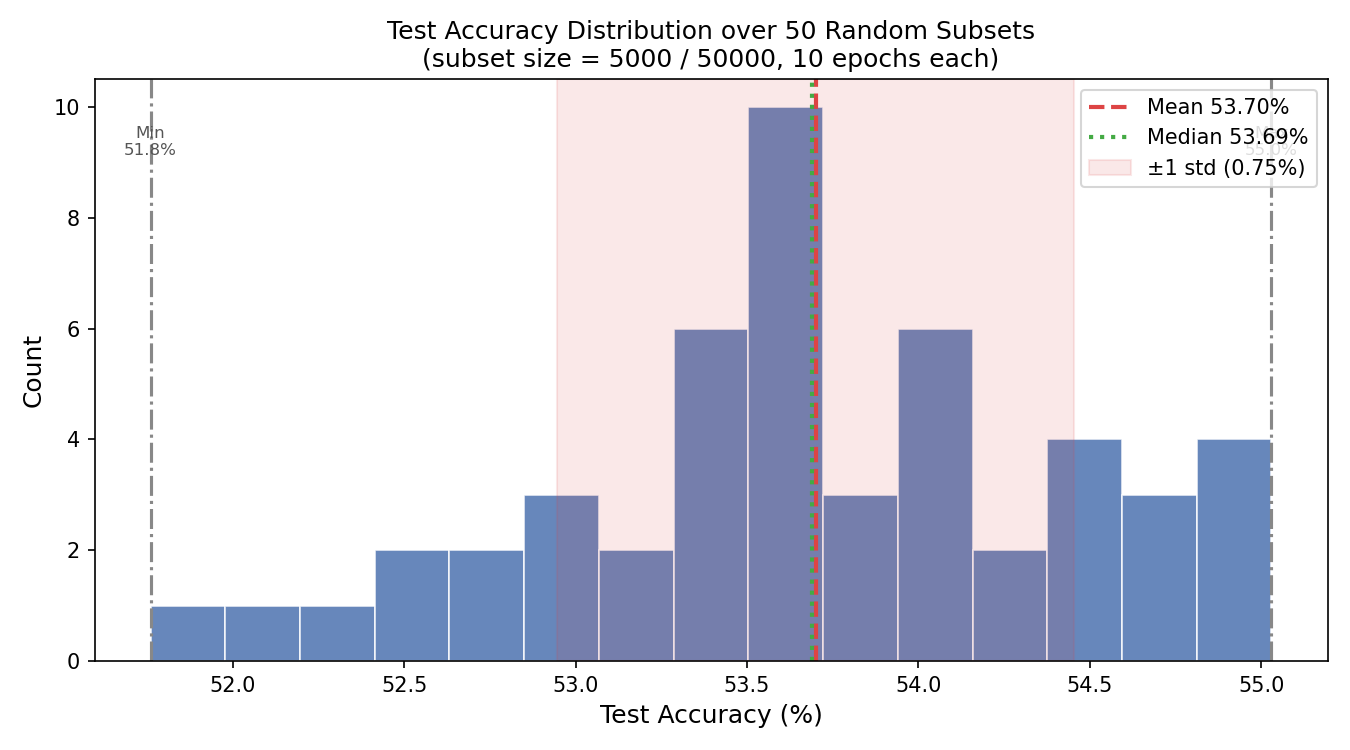
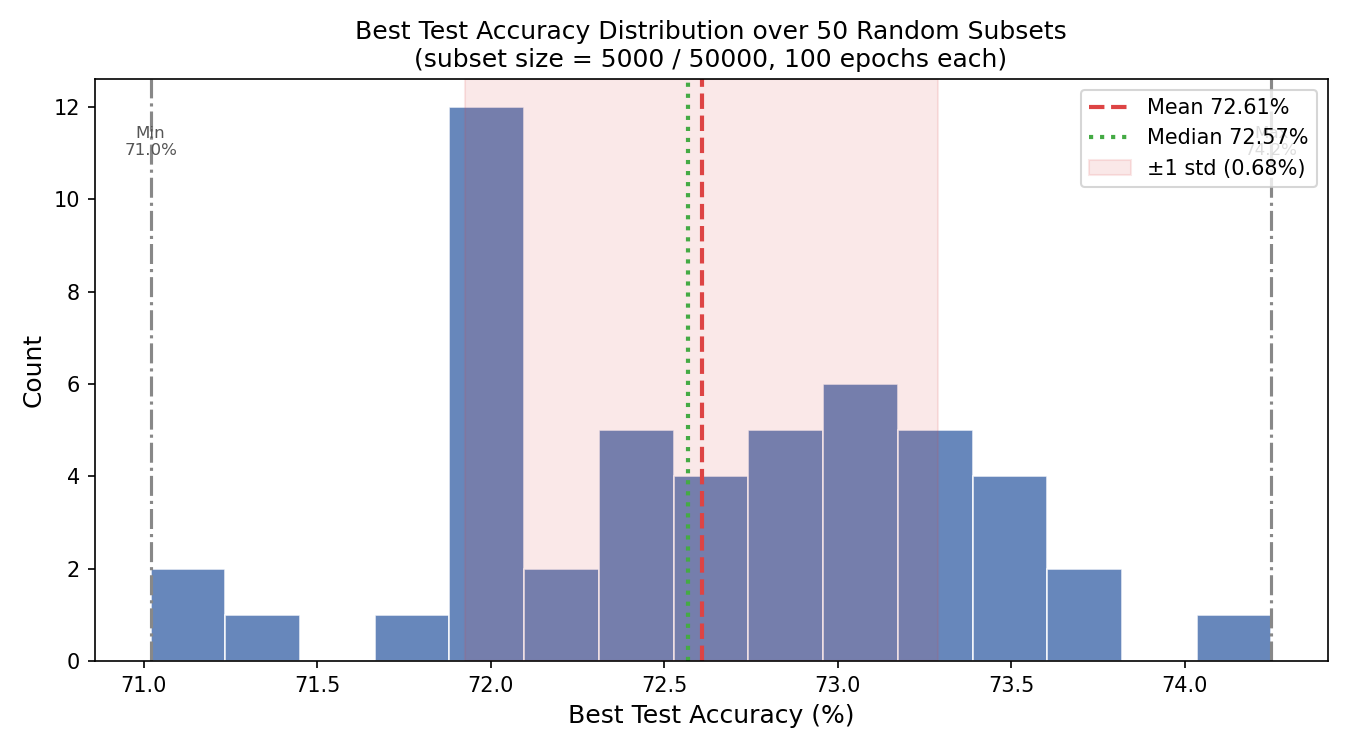
increasing epochs

diff --git a/cifar10_subset_experiment.py b/cifar10_subset_experiment.py
@@ -24,7 +24,7 @@ import argparse
 DEFAULT_CONFIG = dict(
     subset_size=5000,       # number of training samples per trial
     num_trials=50,
-    epochs_per_trial=10,
+    epochs_per_trial=100,    # Updated to 100 epochs
     batch_size=128,
     lr=0.01,
     momentum=0.9,
@@ -172,6 +172,8 @@ def run_trial(trial_idx, train_full, test_loader, config, device, parent_run_id)
         train_loss, train_acc = train_one_epoch(model, train_loader, criterion, optimizer, device)
         test_loss, test_acc = evaluate(model, test_loader, criterion, device)
         scheduler.step()
+        
+        # Track the best accuracy seen so far
         best_test_acc = max(best_test_acc, test_acc)
 
         wandb.log({
@@ -180,17 +182,19 @@ def run_trial(trial_idx, train_full, test_loader, config, device, parent_run_id)
             "train/acc": train_acc,
             "test/loss": test_loss,
             "test/acc": test_acc,
+            "best_test_acc": best_test_acc, # Helpful to see it climb in W&B
             "lr": scheduler.get_last_lr()[0],
         })
 
-    final_test_loss, final_test_acc = evaluate(model, test_loader, criterion, device)
-    wandb.summary["final_test_acc"] = final_test_acc
+    # Record the best accuracy to W&B summary and finish run
     wandb.summary["best_test_acc"] = best_test_acc
     wandb.finish()
 
     print(f"  Trial {trial_idx:02d}/{config['num_trials']} | "
-          f"Final test acc: {final_test_acc*100:.2f}%")
-    return final_test_acc
+          f"Best test acc: {best_test_acc*100:.2f}%")
+          
+    # Return the best accuracy instead of the final accuracy
+    return best_test_acc
 
 
 # ─────────────────────────────────────────────
@@ -266,10 +270,10 @@ def main(config):
         ax.text(val, ax.get_ylim()[1] * 0.92, label,
                 ha="center", va="top", fontsize=8, color="#555555")
 
-    ax.set_xlabel("Test Accuracy (%)", fontsize=12)
+    ax.set_xlabel("Best Test Accuracy (%)", fontsize=12)
     ax.set_ylabel("Count", fontsize=12)
     ax.set_title(
-        f"Test Accuracy Distribution over {config['num_trials']} Random Subsets\n"
+        f"Best Test Accuracy Distribution over {config['num_trials']} Random Subsets\n"
         f"(subset size = {config['subset_size']} / {len(train_full)}, "
         f"{config['epochs_per_trial']} epochs each)",
         fontsize=12,
@@ -299,10 +303,10 @@ def main(config):
         "summary/max_acc":    max_acc,
         "summary/median_acc": median_acc,
         "summary/histogram":  wandb.Image(hist_path),
-        "summary/all_trial_accs": wandb.Histogram(accs),
+        "summary/all_trial_best_accs": wandb.Histogram(accs),
     })
     # Log a table of per-trial results
-    table = wandb.Table(columns=["trial", "test_acc_%"])
+    table = wandb.Table(columns=["trial", "best_test_acc_%"])
     for i, a in enumerate(accs, 1):
         table.add_data(i, round(float(a), 4))
     wandb.log({"summary/trial_results": table})

diff --git a/README.md b/README.md
@@ -11,7 +11,7 @@ Training on the full dataset is expensive. If a small, well-chosen subset preser
 Dataset: CIFAR-10 (50,000 training images, 10,000 test images)  
 Subset size: 5,000 samples (10% of training set)  
 Model: Small ResNet (3 residual blocks), trained from scratch  
-Epochs: 10 per run  
+Epochs: 100 per run  
 Evaluation: Full test set (10,000 images)
 
 ## Experiment 1: Random Baseline
@@ -22,11 +22,11 @@ To establish a performance baseline, the training set is randomly sampled 50 tim
 |--------|-------|
 | Trials | 50 |
 | Subset size | 5,000 / 50,000 |
-| Mean accuracy | 53.70% |
-| Std deviation | 0.75% |
-| Min accuracy | 51.76% |
-| Max accuracy | 55.03% |
-| Median accuracy | 53.69% |
+| Mean accuracy | 72.61% |
+| Std deviation | 0.68% |
+| Min accuracy | 71.02% |
+| Max accuracy | 74.25% |
+| Median accuracy | 72.57% |
 
 ![Random subset performance](subset_accuracy_histogram.png)
 
@@ -47,9 +47,7 @@ Greedy maximization is used to find the solution set, which then serves as the t
 | Method | Test Accuracy |
 |--------|--------------|
 | Random baseline (mean) | 53.70% |
-| Submodular, best configuration | **54.88%** |
-
-The best submodular configuration achieves +1.18 percentage points over the random mean, demonstrating that structured selection finds a consistently better subset than chance.
+| Submodular, best configuration | |
 
 ## Scripts
 
